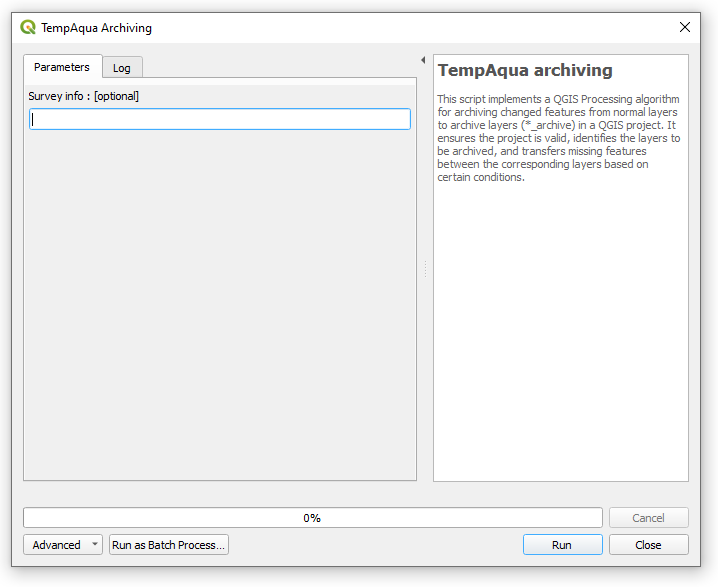
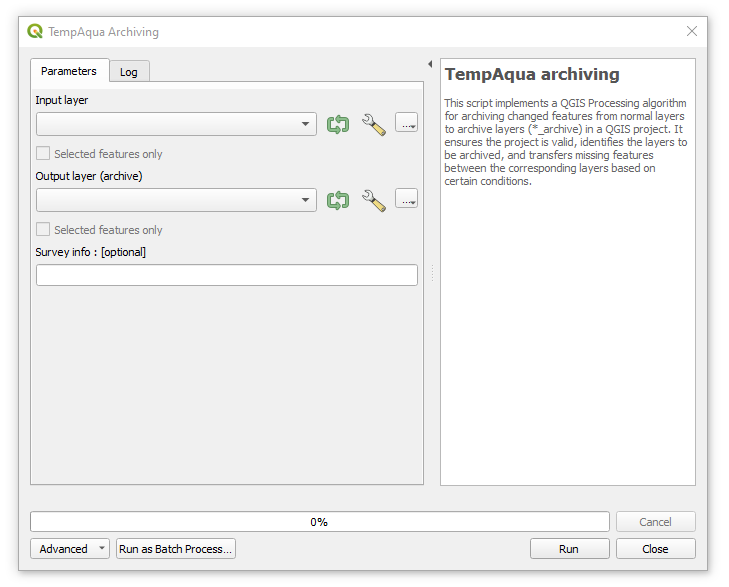
doc() : update

Changed region(s): [[0.0, 0.0, 1.0, 0.9813], [0.3983, 0.3066, 0.5822, 0.368], [0.5515, 0.4293, 0.5822, 0.4906]]

diff --git a/doc/USAGE.md b/doc/USAGE.md
@@ -160,10 +160,9 @@ To get the data from your field data collection, you need to download the data f
 > We developed a set of scripts to automate the data collection process. These scripts are located in the `/qgis/` folder. The following sections describe how to use these scripts. Installation process can be found [here](INSTALLATION.md).
 
 
-This script performs the following actions:
+This script copy the modified feature from one table to another one. 
 
-- It validates the project by ensuring that it contains at least four layers, with at least two layers ending with '_archive', and at least two layers with names containing "media".
-- It transfers new or modified features from the normal table to the archived counterpart.
+
 
 ![tt](static/tempAqua_archiving.png)
 
@@ -174,8 +173,10 @@ To run a script
 1. From the `QGIS survey project` copy the table you want to archive and paste it in the `QGIS manager project`. 
 1. double click on the script. The following window will appear:
 ![tt](static/tempAqua_archiving_2.png)
-2. Add optional information to be saved in the archived table. This information can be used to describe the survey or any changes made.
-3. Click on `Run` button. The script will run and a log will be displayed in the window. The log will indicate the number of features that have been archived.
+1. Select the layer you want to archive.
+1. Select the layer you want to use as archive.
+1. Add optional information to be saved in the archived table. This information can be used to describe the survey or any changes made.
+1. Click on `Run` button. The script will run and a log will be displayed in the window. The log will indicate the number of features that have been archived.
 
 
 
